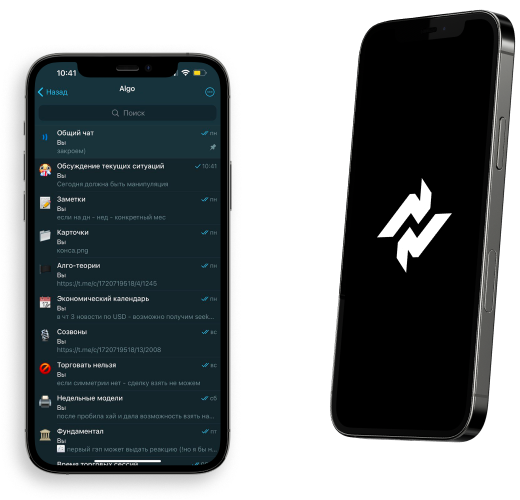
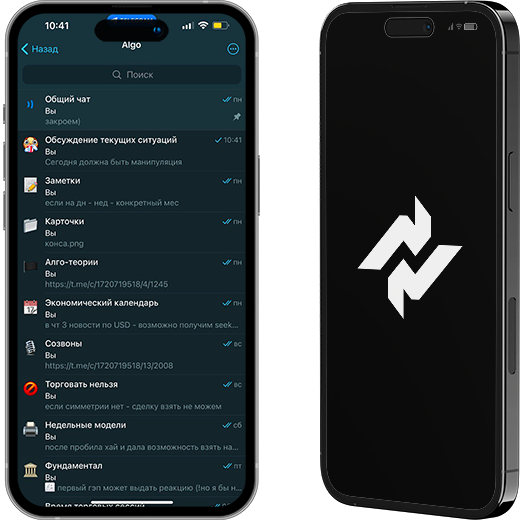
add new img and add links

diff --git a/index.html b/index.html
@@ -81,8 +81,8 @@
 
                             <div class="home__social-links home__social-links--mobile">
                                 <a href="https://api.whatsapp.com/send?phone=79119042428" class="social-link" target="_blank" aria-label="Link whatsapp"><span class="home__social-links-icon icon icon--whatsapp"></span></a>
-                                <a href="https://t.me/AndrianDemkovich" class="social-link" target="_blank" aria-label="Link telegram"><span class="home__social-links-icon icon icon--telegram"></span></a>
-                                <a href="#" class="social-link" target="_blank" aria-label="Link instagram"><span class="home__social-links-icon icon icon--inst"></span></a>
+                                <a href="https://t.me/movemind_trading" class="social-link" target="_blank" aria-label="Link telegram"><span class="home__social-links-icon icon icon--telegram"></span></a>
+                                <a href="https://www.instagram.com/mr.movemind/" class="social-link" target="_blank" aria-label="Link instagram"><span class="home__social-links-icon icon icon--inst"></span></a>
                             </div>
 
                             <a data-aos="fade-left" data-aos-duration="2000" href="#study" class="home__button button">Подробнее <span class="button__icon icon icon--double-arrow"></span></a>
@@ -110,8 +110,8 @@
 
                 <div class="home__social-links social-links">
                     <a href="https://api.whatsapp.com/send?phone=79119042428" class="social-link" target="_blank" aria-label="Link whatsapp"><span class="home__social-links-icon icon icon--whatsapp"></span></a>
-                    <a href="https://t.me/AndrianDemkovich" class="social-link" target="_blank" aria-label="Link telegram"><span class="home__social-links-icon icon icon--telegram"></span></a>
-                    <a href="#" class="social-link" target="_blank" aria-label="Link instagram"><span class="home__social-links-icon icon icon--inst"></span></a>
+                    <a href="https://t.me/movemind_trading" class="social-link" target="_blank" aria-label="Link telegram"><span class="home__social-links-icon icon icon--telegram"></span></a>
+                    <a href="https://www.instagram.com/mr.movemind/" class="social-link" target="_blank" aria-label="Link instagram"><span class="home__social-links-icon icon icon--inst"></span></a>
                 </div>
             </section>
 
@@ -424,17 +424,13 @@
                                     <span class="accordion__header-icon icon icon--plus"></span>
                                 </div>
                                 <div class="accordion__content font-body">
-                                    <p>Применение изученной логики</p>
-                                    <p>Формирование собственного сетапа</p>
-                                    <p>Построение системы риск-менеджмента</p>
-                                    <p>Анализ текущих ситуаций на рынке</p>
-                                    <p>Возможность присоединиться к закрытому чату прибыльных трейдеров</p>
+                                    <p>По вопросам индивидуальных занятий - напишите нам в Telegram</p>
                                 </div>
                             </label>
 
 
                             <div class="faq__content-price">
-                                <div class="faq__content-price-text" id="priceStudy">50 000 ₽ / МЕС.</div>
+                                <div class="faq__content-price-text" id="priceStudy">55 000 ₽ / МЕС.</div>
                                 <a href="#" class="faq__content-price-button button">Купить <span class="button__icon icon icon--shopping-cart"></span></a>
                             </div>
                         </div>
@@ -446,7 +442,7 @@
                                 <h2 class="heading__title">Программа курса</h2>
                             </div>
 
-                            <p class="faq__content-footnote font-body">Получить консультацию по&nbsp;курсу можно в&nbsp;нашем <a href="https://t.me/AndrianDemkovich" class="link" target="_blank" aria-label="Link telegram">Telegram</a>.</p>
+                            <p class="faq__content-footnote font-body">Получить консультацию по&nbsp;курсу можно в&nbsp;нашем <a href="https://t.me/movemind_trading" class="link" target="_blank" aria-label="Link telegram">Telegram</a>.</p>
 
                         </div>
                     </div>
@@ -572,8 +568,8 @@
                             <div class="social__wrap-image">
                                 <img class="social__src" src="img/phone-diskord.png" alt="mockup-iphone-with-diskord" data-aos="flip-left" data-aos-duration="1000">
                                 <div class="social__buttons" data-aos="fade-up" data-aos-duration="1500">
-                                    <!-- <a href="#" class="social__buttons-button button discord" aria-label="Link discord"><span class="social__buttons-icon button__icon icon icon--discord"></span><span>Discord </span></a> -->
-                                    <a href="#" class="social__buttons-button button telegram" aria-label="Link telegram"><span class="social__buttons-icon button__icon icon icon--tg-circle"></span><span>Telegram </span></a>
+                                    <a href="https://t.me/movemind_trading" class="social__buttons-button button telegram" aria-label="Link telegram"><span class="social__buttons-icon button__icon icon icon--tg-circle"></span><span>Telegram </span></a>
+                                    <a href="#" class="social__buttons-button button discord" aria-label="Link discord"><span class="social__buttons-icon button__icon icon icon--discord"></span><span>Discord </span></a>
                                 </div>
                             </div>
                         </div>
@@ -686,8 +682,8 @@
                     <div class="footer__social-wrapper">
                         <div class="footer__social">
                             <a class="social__link social__link--fb" href="https://api.whatsapp.com/send?phone=79119042428" target="_blank" aria-label="social-link-whatsapp-mm-trading"><span class="icon icon--whatsapp"></span></a>
-                            <a class="social__link social__link--lk" href="https://t.me/AndrianDemkovich" target="_blank" aria-label="social-link-telegram-mm-trading"><span class=" icon icon--telegram"></span></a>
-                            <a class="social__link social__link--tw" href="#" target="_blank" aria-label="social-link-telegram-mm-trading"><span class=" icon icon--inst"></span></a>
+                            <a class="social__link social__link--lk" href="https://t.me/movemind_trading" target="_blank" aria-label="social-link-telegram-mm-trading"><span class=" icon icon--telegram"></span></a>
+                            <a class="social__link social__link--tw" href="https://instagram.com/mr.movemind" target="_blank" aria-label="social-link-instagram-mm-trading"><span class=" icon icon--inst"></span></a>
                         </div>
                     </div>
                 </div>
